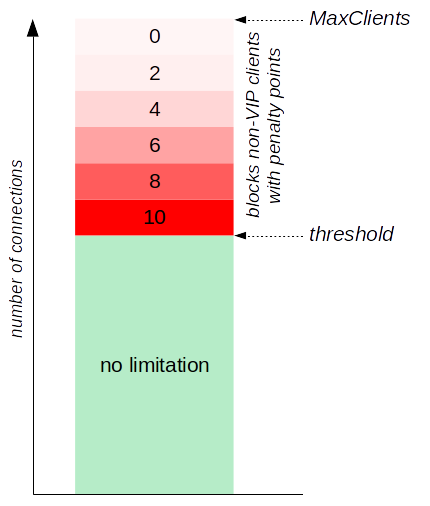
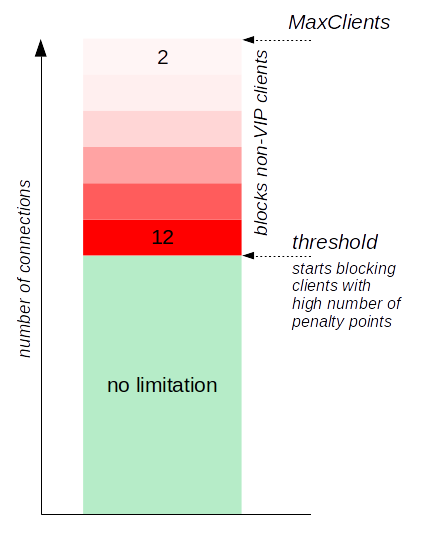
ClientPrefer.png
git-svn-id: https://svn.code.sf.net/p/mod-qos/source/trunk@2369 49bada20-169a-462c-a56a-03074c89f563

diff --git a/doc/index.html b/doc/index.html
@@ -1790,14 +1790,14 @@ the TCP connection.
 <a name="QS_ClientPrefer"></a>
 <code>QS_ClientPrefer [&lt;percent&gt;]</code><br>
 Accepts only <a href="#privilegedusers">VIP</a> 
-and high priority clients (<a href="images/ClientPrefer.png">few penalty points</a>)
-when the server has less than 80% (or the defined percentage) of
-free TCP connections. Use the 
+and high priority clients when the server has less than 80%
+(or the defined percentage) of free TCP connections. The server
+<a href="images/ClientPrefer.png">continues dropping more and more clients (also those with few penalty points) the higher the number of connections grows</a>. <br>Use the 
 <code><a href="#QS_VipHeaderName">QS_VipHeaderName</a></code> or 
 <code><a href="#QS_VipIPHeaderName">QS_VipIPHeaderName</a></code> 
-directive in order to identify <a href="#privilegedusers">VIP</a> clients.
+directive in order to identify <a href="#privilegedusers">VIP</a> clients.<br>
 The distinction between high and low priority clients is made
-based on different client attributes:
+based on penality points which are calculated based of these attributes:
 <ul>
 <li>Data transfer behavior (clients sending data slowly / their transfer rate) (0x01).</li>
 <li>Accessing "unusual" content types (see <code><a href="#QS_ClientTolerance">QS_ClientTolerance</a></code> 
